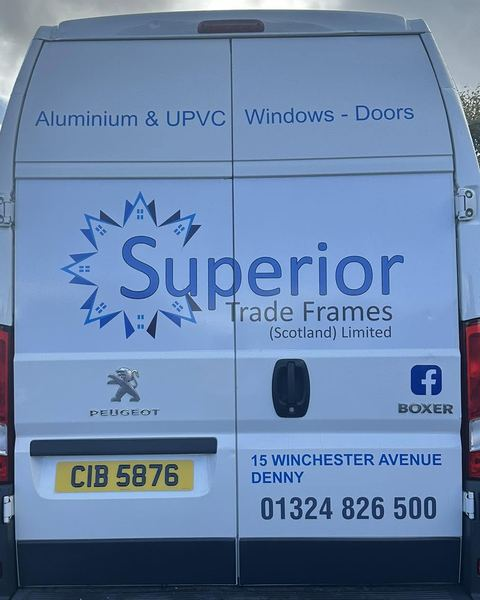
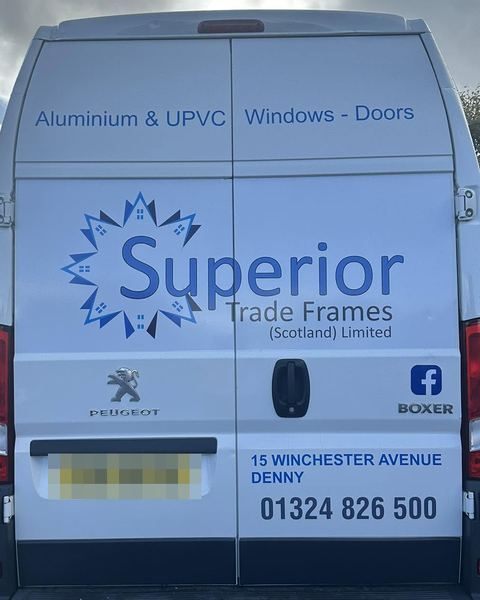
Superior Trade Frames: tester round 1 fixes
Consent bar is one compact row, so Call and some of the van show on a first
visit at 320, 375 and 1280. Composite now applies to doors only in the first
screen line, meta and share card. The tool's caption and label always describe
what is drawn. Number plate pixelated in the van crops and share card. Find us
email is a mailto link. Six type sizes at any width; every h1 on one scale.

Claude-Session: https://claude.ai/code/session_01PjrVLoBjhYPmFNDPChi3Es

Changed region(s): [[0.0938, 0.75, 0.4375, 0.84]]

diff --git a/concepts/superior-trade-frames/index.html b/concepts/superior-trade-frames/index.html
@@ -5,13 +5,13 @@
 <meta name="viewport" content="width=device-width, initial-scale=1">
 <meta name="robots" content="noindex, nofollow">
 <title>Superior Trade Frames | Windows and doors in Denny, for the trade and DIY</title>
-<meta name="description" content="uPVC, composite and aluminium windows and doors at 15 Winchester Avenue, Denny. Send your sizes for a price or call 01324 826500.">
+<meta name="description" content="uPVC and aluminium windows and doors, and composite doors, at 15 Winchester Avenue, Denny. Send your sizes for a price or call 01324 826500.">
 <link rel="canonical" href="https://tempanywebstudios.co.uk/concepts/superior-trade-frames/">
 <meta property="og:type" content="website">
 <meta property="og:locale" content="en_GB">
 <meta property="og:site_name" content="Superior Trade Frames, a concept by Tempany Web Studios">
 <meta property="og:title" content="Superior Trade Frames | Windows and doors in Denny, for the trade and DIY">
-<meta property="og:description" content="uPVC, composite and aluminium windows and doors at 15 Winchester Avenue, Denny. Send your sizes for a price or call 01324 826500.">
+<meta property="og:description" content="uPVC and aluminium windows and doors, and composite doors, at 15 Winchester Avenue, Denny. Send your sizes for a price or call 01324 826500.">
 <meta property="og:url" content="https://tempanywebstudios.co.uk/concepts/superior-trade-frames/">
 <meta property="og:image" content="https://tempanywebstudios.co.uk/concepts/superior-trade-frames/assets/share.png">
 <meta property="og:image:width" content="1200">
@@ -19,7 +19,7 @@
 <meta property="og:image:alt" content="Superior Trade Frames, windows and doors in Denny, beside the back doors of their van">
 <meta name="twitter:card" content="summary_large_image">
 <meta name="twitter:title" content="Superior Trade Frames | Windows and doors in Denny, for the trade and DIY">
-<meta name="twitter:description" content="uPVC, composite and aluminium windows and doors at 15 Winchester Avenue, Denny. Send your sizes for a price or call 01324 826500.">
+<meta name="twitter:description" content="uPVC and aluminium windows and doors, and composite doors, at 15 Winchester Avenue, Denny. Send your sizes for a price or call 01324 826500.">
 <meta name="twitter:image" content="https://tempanywebstudios.co.uk/concepts/superior-trade-frames/assets/share.png">
 <meta name="theme-color" content="#244B8E">
 <meta name="tws-storage-prefix" content="stf">
@@ -35,7 +35,7 @@
 </head>
 <body>
 <a class="skip" href="#top">Skip to the page</a>
-<div class="strip"><div class="wrap"><p>A <a href="https://tempanywebstudios.co.uk/">Tempany Web Studios</a> concept. Not Superior's live site.</p></div></div>
+<div class="strip"><div class="wrap"><p>A <a href="https://tempanywebstudios.co.uk/">Tempany Web Studios</a> concept. Not their live site.</p></div></div>
 <header class="head" data-chrome>
 <div class="wrap">
 <a class="mark" href="./" aria-label="Superior Trade Frames, home"><b>Superior</b><span>Trade Frames</span></a>
@@ -48,7 +48,7 @@
 <div class="wrap">
 <div class="text">
 <h1 id="h1">Windows and doors in Denny, for the trade and DIY</h1>
-<p class="line" data-landing>uPVC, composite and aluminium windows and doors. 15 Winchester Avenue, open Monday to Friday from <span class="num">7:30am</span>.</p>
+<p class="line" data-landing>uPVC and aluminium windows and doors, and composite doors. 15 Winchester Avenue, open Monday to Friday from <span class="num">7:30am</span>.</p>
 <p class="proof num" data-landing>5.0 on Google from 3 reviews. 100% recommend on Facebook from 9.</p>
 <p class="call"><a class="btn btn-big" href="tel:+441324826500" data-landing>Call 01324 826500</a></p>
 <p class="alt">or email your sizes to <a href="mailto:sales@superiorscotland.co.uk" data-target-skip>sales@superiorscotland.co.uk</a></p>
@@ -146,7 +146,7 @@
 <address>15 Winchester Avenue<br>Denny</address>
 <table class="hours"><caption>Opening hours</caption><tbody><tr><th scope="row">Monday</th><td>7:30am to 4:30pm</td></tr><tr><th scope="row">Tuesday</th><td>7:30am to 4:30pm</td></tr><tr><th scope="row">Wednesday</th><td>7:30am to 4:30pm</td></tr><tr><th scope="row">Thursday</th><td>7:30am to 4:30pm</td></tr><tr><th scope="row">Friday</th><td>7:30am to 3pm</td></tr><tr><th scope="row">Saturday</th><td>Closed</td></tr><tr><th scope="row">Sunday</th><td>Closed</td></tr></tbody></table>
 <p><a class="btn btn-big" href="tel:+441324826500">Call 01324 826500</a></p>
-<p>Or email sales@superiorscotland.co.uk</p>
+<p>Or email <a href="mailto:sales@superiorscotland.co.uk" data-target-skip>sales@superiorscotland.co.uk</a></p>
 </div>
 <figure class="photo "><img src="img/van-at-unit-2.jpg" alt="The Superior Trade Frames van parked outside their unit, with the Superior sign on the wall behind." width="960" height="720" loading="lazy" decoding="async"></figure>
 </div>
@@ -182,7 +182,7 @@
 </div>
 <div id="consent" role="region" aria-label="Cookie choice" hidden>
 <div class="wrap">
-<p>This page keeps your cookie choice in your browser. Analytics stays off unless you accept, and on this concept nothing loads either way.</p>
+<p>Analytics stays off unless you accept.</p>
 <div class="btns"><button class="btn" type="button" data-consent="reject">Reject</button><button class="btn" type="button" data-consent="accept">Accept</button></div>
 </div>
 </div>

diff --git a/concepts/superior-trade-frames/style.css b/concepts/superior-trade-frames/style.css
@@ -14,14 +14,14 @@
   /* spacing scale 4/8/16/24/32/48/64/96 */
   --s1: 4px; --s2: 8px; --s3: 16px; --s4: 24px; --s5: 32px; --s6: 48px; --s7: 64px; --s8: 96px;
 
-  /* seven type sizes (README section 9 caps it at eight), fluid, tracking tightens as size grows */
-  --t-h1: clamp(2.25rem, 1.55rem + 3vw, 4rem);
-  --t-h2: clamp(1.75rem, 1.4rem + 1.5vw, 2.5rem);
+  /* six type sizes at any one width: strip, small, body, h3, h2, h1 (the wordmark and the
+   drawing's lettering reuse h3 and body), fluid, tracking tightens as size grows */
+  --t-h1: clamp(2rem, 1rem + 3.75vw, 4rem);
+  --t-h2: clamp(1.75rem, 1.3rem + 1.5vw, 2.5rem);
   --t-h3: 1.375rem;
-  --t-mark: 1.75rem;
   --t-body: 1.125rem;
   --t-small: 1rem;
-  --t-strip: 0.875rem; /* the concept strip only, so it stays one line at 375px */
+  --t-strip: 0.875rem; /* the concept strip and the consent line only */
 
   --bar-h: 0px;          /* sticky call bar height, set under 900px */
   --consent-h: 0px;      /* written by site.js while the consent bar shows */
@@ -39,7 +39,7 @@ body {
   line-height: 1.5;
   padding-bottom: calc(var(--bar-h) + var(--consent-h));
 }
-@media (max-width: 899px) { :root { --bar-h: 72px; } }
+@media (max-width: 899px) { :root { --bar-h: 62px; } }
 
 h1, h2, h3 { color: var(--blue); font-weight: 700; line-height: 1.1; margin: 0 0 var(--s3); text-wrap: balance; }
 h1 { font-size: var(--t-h1); letter-spacing: -0.02em; }
@@ -69,11 +69,12 @@ img { display: block; max-width: 100%; height: auto; }
 .head { padding: var(--s2) 0 0; }
 .head .wrap { display: flex; flex-wrap: wrap; align-items: flex-end; justify-content: space-between; gap: 0 var(--s4); }
 .mark { color: var(--blue); text-decoration: none; font-weight: 700; line-height: 1; display: inline-flex; align-items: baseline; gap: var(--s2); min-height: 44px; padding: var(--s2) 0; }
-.mark b { font-size: var(--t-mark); letter-spacing: -0.015em; }
+.mark b { font-size: var(--t-h3); letter-spacing: -0.015em; }
 .mark span { font-size: var(--t-small); }
 .mark:hover { color: var(--blue-deep); }
 .nav ul { list-style: none; display: flex; flex-wrap: wrap; gap: 0 var(--s3); margin: 0; padding: 0; font-size: var(--t-small); }
 @media (min-width: 900px) { .nav ul { font-size: var(--t-body); gap: 0 var(--s4); } }
+@media (max-width: 359px) { .nav ul { gap: 0 var(--s1); font-size: var(--t-strip); } }
 .nav a { display: inline-flex; align-items: center; justify-content: center; min-height: 44px; min-width: 44px; color: var(--ink); text-decoration: none; border-bottom: 2px solid transparent; }
 .nav a:hover { color: var(--blue); border-bottom-color: var(--wall); }
 .nav a[aria-current="page"] { border-bottom-color: var(--ink); }
@@ -121,7 +122,7 @@ section.first { border-top: 0; padding-top: var(--s4); }
      above the sticky bar; the email line follows it. Source order is unchanged. */
   .hero .wrap { gap: 0; }
   .hero .text { display: contents; }
-  .hero h1 { font-size: 2rem; margin-bottom: var(--s2); order: 1; }
+  .hero h1 { margin-bottom: var(--s2); order: 1; }
   .hero .line { font-size: var(--t-body); margin-bottom: var(--s2); order: 2; }
   .hero .proof { font-size: var(--t-small); margin-bottom: var(--s3); order: 3; }
   .hero .call { margin: 0 0 var(--s2); order: 4; }
@@ -252,10 +253,13 @@ legend { font-weight: 700; padding: 0; margin-bottom: var(--s2); }
 }
 
 /* Consent bar: above the sticky bar, never over it */
-#consent { position: fixed; left: 0; right: 0; bottom: var(--bar-h); z-index: 40; background: var(--white); border-top: 1px solid var(--ink); padding: var(--s3) 0; }
+#consent { position: fixed; left: 0; right: 0; bottom: var(--bar-h); z-index: 40; background: var(--white); border-top: 1px solid var(--ink); padding: var(--s2) 0; }
 #consent[hidden] { display: none; }
-#consent .wrap { display: flex; flex-wrap: wrap; gap: var(--s2) var(--s4); align-items: center; justify-content: space-between; }
-#consent p { margin: 0; font-size: var(--t-small); }
-#consent .btns { display: flex; gap: var(--s2); }
+/* One compact row, so the first screen's Call button and some of the van show while it is up */
+#consent .wrap { display: flex; flex-wrap: nowrap; gap: var(--s2); align-items: center; justify-content: space-between; }
+#consent p { margin: 0; font-size: var(--t-strip); line-height: 1.3; }
+#consent .btns { display: flex; gap: var(--s2); flex: none; }
+#consent .btn { min-height: 44px; padding: var(--s1) var(--s3); font-size: var(--t-small); }
+@media (max-width: 899px) { #consent .btn { padding: var(--s1) var(--s2); } }
 
 @media (prefers-reduced-motion: reduce) { * { scroll-behavior: auto !important; transition: none !important; } }

diff --git a/concepts/superior-trade-frames/sizes.js b/concepts/superior-trade-frames/sizes.js
@@ -157,7 +157,7 @@
     d.appendChild(el('line', { x1: rx, y1: y0, x2: rx, y2: y0 + fh }));
     d.appendChild(el('line', { x1: rx - 8, y1: y0, x2: rx + 8, y2: y0 }));
     d.appendChild(el('line', { x1: rx - 8, y1: y0 + fh, x2: rx + 8, y2: y0 + fh }));
-    var font = { 'font-family': 'Carlito, Calibri, sans-serif', 'font-size': '20', 'font-weight': '700', fill: INK, style: 'font-variant-numeric: tabular-nums' };
+    var font = { 'font-family': 'Carlito, Calibri, sans-serif', 'font-size': '18', 'font-weight': '700', fill: INK, style: 'font-variant-numeric: tabular-nums' };
     var top = el('text', Object.assign({ x: (x0 + fw / 2).toFixed(1), y: (ty - 8).toFixed(1), 'text-anchor': 'middle', 'data-dim': 'width' }, font), st.dw + ' mm');
     var cy = y0 + fh / 2;
     var right = el('text', Object.assign({ x: (rx + 22).toFixed(1), y: cy.toFixed(1), 'text-anchor': 'middle', transform: 'rotate(-90 ' + (rx + 22).toFixed(1) + ' ' + cy.toFixed(1) + ')', 'data-dim': 'height' }, font), st.dh + ' mm');
@@ -231,11 +231,22 @@
     syncMaterials();
     var st = state();
     render(st);
-    var label = (st.example ? 'Example: ' : '') + name({ type: st.dt, material: st.type ? st.material : (st.example ? EX.material : st.material) }) + ', ' + st.dw + ' mm wide by ' + st.dh + ' mm high, ' + st.dc;
-    svg.setAttribute('aria-label', label);
-    cap.textContent = st.example
-      ? 'Example: a composite door, 830 by 2050 mm. Type your sizes and it redraws to them.'
-      : 'Drawn to your sizes: ' + st.dw + ' mm wide by ' + st.dh + ' mm high.';
+    // caption and label always describe what is drawn, and say which parts are still the example
+    var nothing = !st.type && !st.material && !st.colour && !good.w && !good.h;
+    var drawnMat = st.material || (st.type ? null : EX.material);
+    var desc = name({ type: st.dt, material: drawnMat }) + ', ' + st.dw + ' mm wide by ' + st.dh + ' mm high, ' + st.dc;
+    var ex = [];
+    if (!st.type) ex.push('type');
+    if (!good.w) ex.push('width');
+    if (!good.h) ex.push('height');
+    if (!st.colour) ex.push('colour');
+    var exList = ex.length > 1 ? ex.slice(0, -1).join(', ') + ' and ' + ex[ex.length - 1] : ex[0];
+    svg.setAttribute('aria-label', (ex.length ? 'Example: ' : '') + desc);
+    cap.textContent = nothing
+      ? 'Example: ' + desc + '. Type your sizes and it redraws to them.'
+      : ex.length
+        ? desc + '. The ' + exList + (ex.length > 1 ? ' are' : ' is') + ' the example until you choose yours.'
+        : 'Drawn to your sizes: ' + desc + '.';
 
     var c = compose(st);
     msg.textContent = '';

diff --git a/concepts/superior-trade-frames/404.html b/concepts/superior-trade-frames/404.html
@@ -32,7 +32,7 @@
 </head>
 <body>
 <a class="skip" href="#top">Skip to the page</a>
-<div class="strip"><div class="wrap"><p>A <a href="https://tempanywebstudios.co.uk/">Tempany Web Studios</a> concept. Not Superior's live site.</p></div></div>
+<div class="strip"><div class="wrap"><p>A <a href="https://tempanywebstudios.co.uk/">Tempany Web Studios</a> concept. Not their live site.</p></div></div>
 <header class="head" data-chrome>
 <div class="wrap">
 <a class="mark" href="/concepts/superior-trade-frames/" aria-label="Superior Trade Frames, home"><b>Superior</b><span>Trade Frames</span></a>
@@ -77,7 +77,7 @@
 </div>
 <div id="consent" role="region" aria-label="Cookie choice" hidden>
 <div class="wrap">
-<p>This page keeps your cookie choice in your browser. Analytics stays off unless you accept, and on this concept nothing loads either way.</p>
+<p>Analytics stays off unless you accept.</p>
 <div class="btns"><button class="btn" type="button" data-consent="reject">Reject</button><button class="btn" type="button" data-consent="accept">Accept</button></div>
 </div>
 </div>

diff --git a/concepts/superior-trade-frames/about.html b/concepts/superior-trade-frames/about.html
@@ -33,7 +33,7 @@
 </head>
 <body>
 <a class="skip" href="#top">Skip to the page</a>
-<div class="strip"><div class="wrap"><p>A <a href="https://tempanywebstudios.co.uk/">Tempany Web Studios</a> concept. Not Superior's live site.</p></div></div>
+<div class="strip"><div class="wrap"><p>A <a href="https://tempanywebstudios.co.uk/">Tempany Web Studios</a> concept. Not their live site.</p></div></div>
 <header class="head" data-chrome>
 <div class="wrap">
 <a class="mark" href="./" aria-label="Superior Trade Frames, home"><b>Superior</b><span>Trade Frames</span></a>
@@ -101,7 +101,7 @@
 </div>
 <div id="consent" role="region" aria-label="Cookie choice" hidden>
 <div class="wrap">
-<p>This page keeps your cookie choice in your browser. Analytics stays off unless you accept, and on this concept nothing loads either way.</p>
+<p>Analytics stays off unless you accept.</p>
 <div class="btns"><button class="btn" type="button" data-consent="reject">Reject</button><button class="btn" type="button" data-consent="accept">Accept</button></div>
 </div>
 </div>

diff --git a/concepts/superior-trade-frames/doors.html b/concepts/superior-trade-frames/doors.html
@@ -33,7 +33,7 @@
 </head>
 <body>
 <a class="skip" href="#top">Skip to the page</a>
-<div class="strip"><div class="wrap"><p>A <a href="https://tempanywebstudios.co.uk/">Tempany Web Studios</a> concept. Not Superior's live site.</p></div></div>
+<div class="strip"><div class="wrap"><p>A <a href="https://tempanywebstudios.co.uk/">Tempany Web Studios</a> concept. Not their live site.</p></div></div>
 <header class="head" data-chrome>
 <div class="wrap">
 <a class="mark" href="./" aria-label="Superior Trade Frames, home"><b>Superior</b><span>Trade Frames</span></a>
@@ -104,7 +104,7 @@
 </div>
 <div id="consent" role="region" aria-label="Cookie choice" hidden>
 <div class="wrap">
-<p>This page keeps your cookie choice in your browser. Analytics stays off unless you accept, and on this concept nothing loads either way.</p>
+<p>Analytics stays off unless you accept.</p>
 <div class="btns"><button class="btn" type="button" data-consent="reject">Reject</button><button class="btn" type="button" data-consent="accept">Accept</button></div>
 </div>
 </div>

diff --git a/concepts/superior-trade-frames/get-a-price.html b/concepts/superior-trade-frames/get-a-price.html
@@ -33,7 +33,7 @@
 </head>
 <body>
 <a class="skip" href="#top">Skip to the page</a>
-<div class="strip"><div class="wrap"><p>A <a href="https://tempanywebstudios.co.uk/">Tempany Web Studios</a> concept. Not Superior's live site.</p></div></div>
+<div class="strip"><div class="wrap"><p>A <a href="https://tempanywebstudios.co.uk/">Tempany Web Studios</a> concept. Not their live site.</p></div></div>
 <header class="head" data-chrome>
 <div class="wrap">
 <a class="mark" href="./" aria-label="Superior Trade Frames, home"><b>Superior</b><span>Trade Frames</span></a>
@@ -100,7 +100,7 @@
 </div>
 <div id="consent" role="region" aria-label="Cookie choice" hidden>
 <div class="wrap">
-<p>This page keeps your cookie choice in your browser. Analytics stays off unless you accept, and on this concept nothing loads either way.</p>
+<p>Analytics stays off unless you accept.</p>
 <div class="btns"><button class="btn" type="button" data-consent="reject">Reject</button><button class="btn" type="button" data-consent="accept">Accept</button></div>
 </div>
 </div>

diff --git a/concepts/superior-trade-frames/privacy.html b/concepts/superior-trade-frames/privacy.html
@@ -33,7 +33,7 @@
 </head>
 <body>
 <a class="skip" href="#top">Skip to the page</a>
-<div class="strip"><div class="wrap"><p>A <a href="https://tempanywebstudios.co.uk/">Tempany Web Studios</a> concept. Not Superior's live site.</p></div></div>
+<div class="strip"><div class="wrap"><p>A <a href="https://tempanywebstudios.co.uk/">Tempany Web Studios</a> concept. Not their live site.</p></div></div>
 <header class="head" data-chrome>
 <div class="wrap">
 <a class="mark" href="./" aria-label="Superior Trade Frames, home"><b>Superior</b><span>Trade Frames</span></a>
@@ -88,7 +88,7 @@
 </div>
 <div id="consent" role="region" aria-label="Cookie choice" hidden>
 <div class="wrap">
-<p>This page keeps your cookie choice in your browser. Analytics stays off unless you accept, and on this concept nothing loads either way.</p>
+<p>Analytics stays off unless you accept.</p>
 <div class="btns"><button class="btn" type="button" data-consent="reject">Reject</button><button class="btn" type="button" data-consent="accept">Accept</button></div>
 </div>
 </div>

diff --git a/concepts/superior-trade-frames/terms.html b/concepts/superior-trade-frames/terms.html
@@ -33,7 +33,7 @@
 </head>
 <body>
 <a class="skip" href="#top">Skip to the page</a>
-<div class="strip"><div class="wrap"><p>A <a href="https://tempanywebstudios.co.uk/">Tempany Web Studios</a> concept. Not Superior's live site.</p></div></div>
+<div class="strip"><div class="wrap"><p>A <a href="https://tempanywebstudios.co.uk/">Tempany Web Studios</a> concept. Not their live site.</p></div></div>
 <header class="head" data-chrome>
 <div class="wrap">
 <a class="mark" href="./" aria-label="Superior Trade Frames, home"><b>Superior</b><span>Trade Frames</span></a>
@@ -87,7 +87,7 @@
 </div>
 <div id="consent" role="region" aria-label="Cookie choice" hidden>
 <div class="wrap">
-<p>This page keeps your cookie choice in your browser. Analytics stays off unless you accept, and on this concept nothing loads either way.</p>
+<p>Analytics stays off unless you accept.</p>
 <div class="btns"><button class="btn" type="button" data-consent="reject">Reject</button><button class="btn" type="button" data-consent="accept">Accept</button></div>
 </div>
 </div>

diff --git a/concepts/superior-trade-frames/windows.html b/concepts/superior-trade-frames/windows.html
@@ -33,7 +33,7 @@
 </head>
 <body>
 <a class="skip" href="#top">Skip to the page</a>
-<div class="strip"><div class="wrap"><p>A <a href="https://tempanywebstudios.co.uk/">Tempany Web Studios</a> concept. Not Superior's live site.</p></div></div>
+<div class="strip"><div class="wrap"><p>A <a href="https://tempanywebstudios.co.uk/">Tempany Web Studios</a> concept. Not their live site.</p></div></div>
 <header class="head" data-chrome>
 <div class="wrap">
 <a class="mark" href="./" aria-label="Superior Trade Frames, home"><b>Superior</b><span>Trade Frames</span></a>
@@ -94,7 +94,7 @@
 </div>
 <div id="consent" role="region" aria-label="Cookie choice" hidden>
 <div class="wrap">
-<p>This page keeps your cookie choice in your browser. Analytics stays off unless you accept, and on this concept nothing loads either way.</p>
+<p>Analytics stays off unless you accept.</p>
 <div class="btns"><button class="btn" type="button" data-consent="reject">Reject</button><button class="btn" type="button" data-consent="accept">Accept</button></div>
 </div>
 </div>
